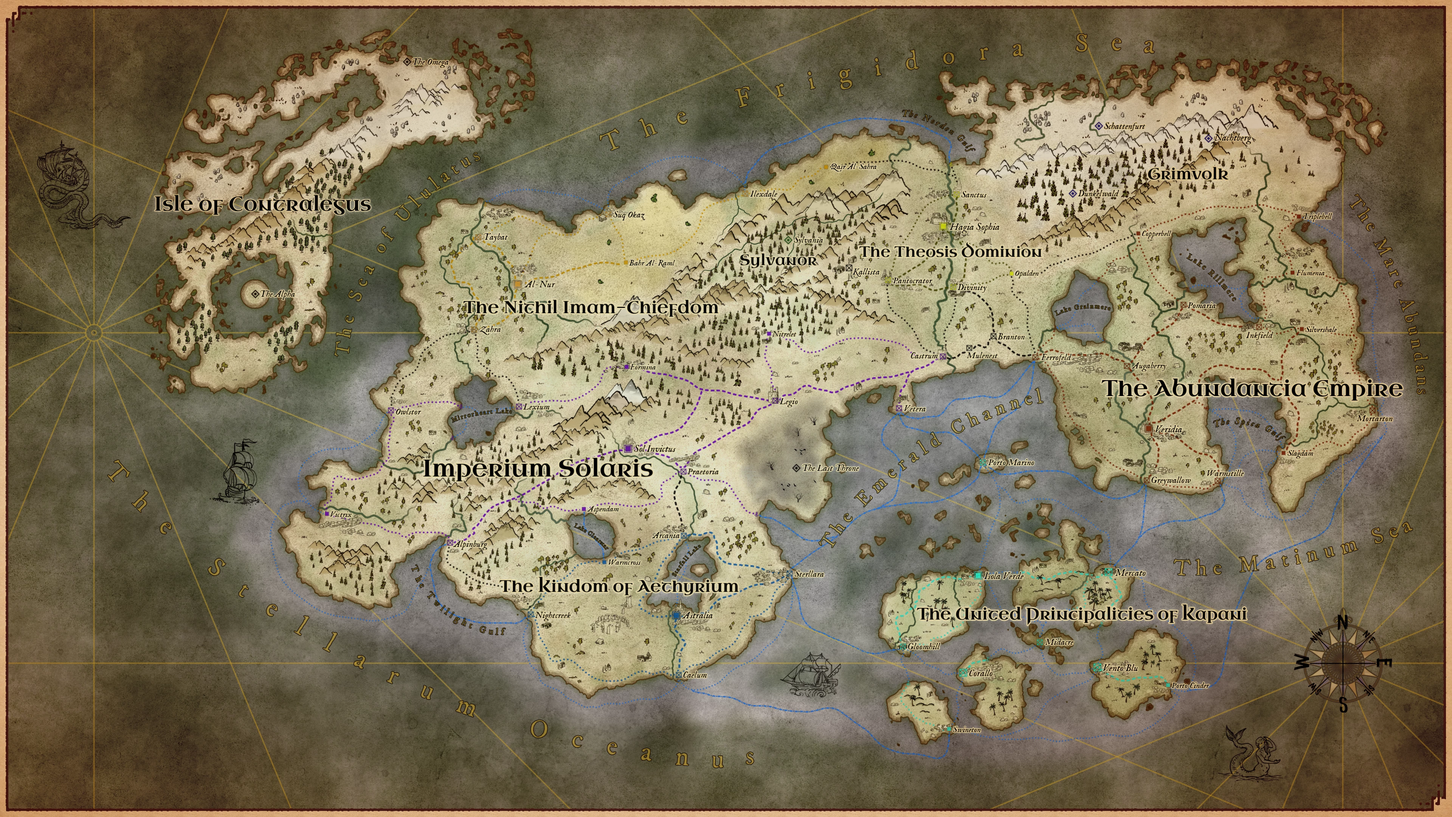
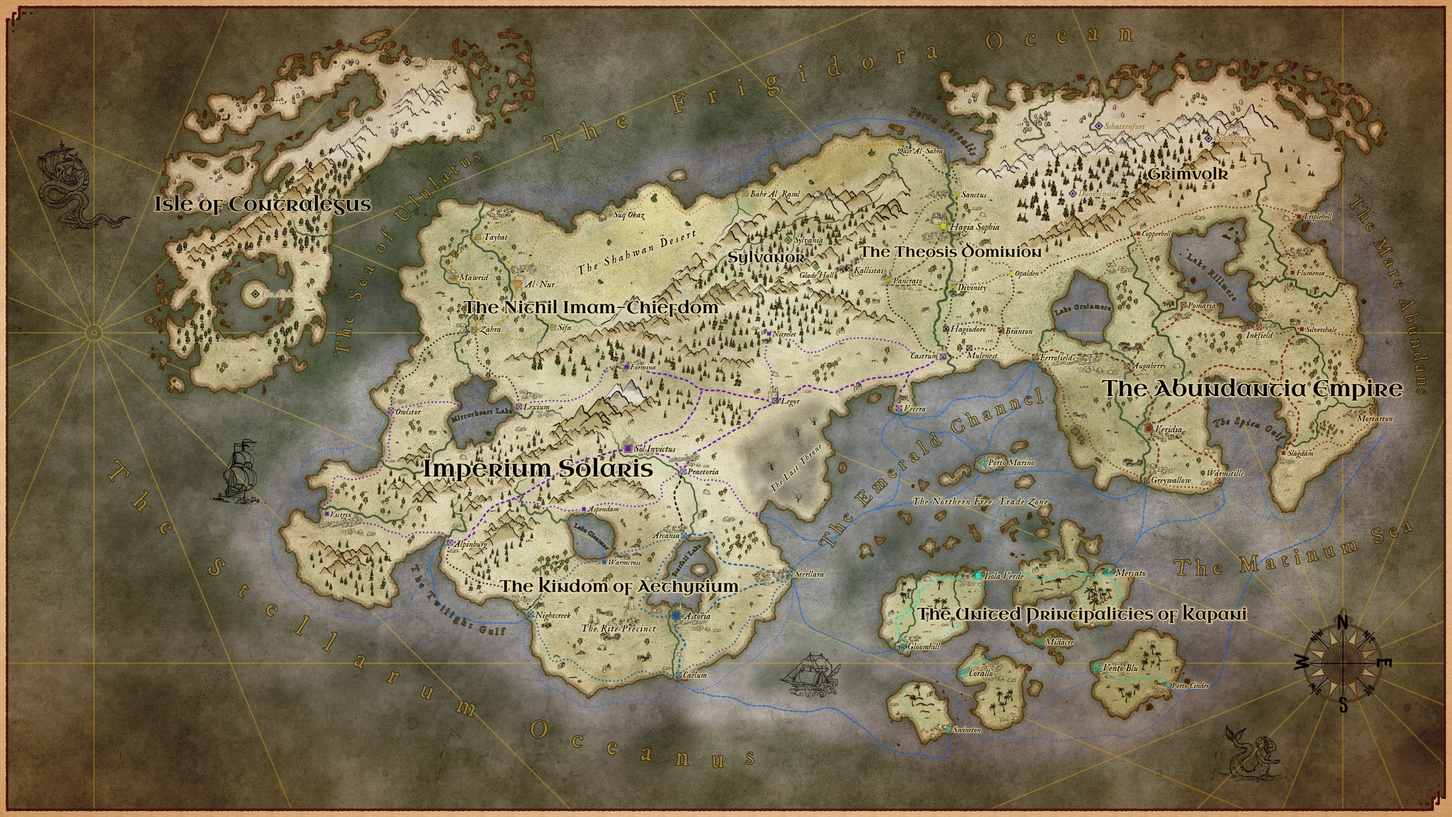
content: 新增《布兰顿战役》并更新地图与若干条目
- 行观别录新增《布兰顿战役》，含 9 张战况插图（右浮动 400px、可放大），
  图片置于 public/compendium/行观别录/布兰顿战役/
- 更新世界地图与标注版地图
- 地理概述地图插图行去掉 描述= 参数
- 修订政治、度量与岁时、阿布丹提亚

diff --git a/data/compendium/行观别录 Notes from the Road/布兰顿战役.md b/data/compendium/行观别录 Notes from the Road/布兰顿战役.md
@@ -1,0 +1,239 @@
+---
+title: 布兰顿战役
+titleEn: The Battle of Branton
+---
+
+布兰顿战役（The Battle of Branton）是第三次阿索战争前期的第一场决定性会战，发生于大陆历 1479 年炎阳季46日至金素季5日，历时约十天，战场位于西比尔平原东南缘的布兰顿河中下游两岸。阿布丹提亚帝国投入前线战斗人员约三十九万，由年仅十七岁的皇帝卡立曼七世·费内尔御驾亲征；索拉瑞斯帝国投入三个军团与近卫龙骑兵团共约五十四万五千人，凯撒雷尔金二世未亲临前线，部队由持凯撒御令的参谋长安托娜·维斯统一指挥。
+
+战役以阿布丹提亚获胜告终。索拉瑞斯三个军团被迫西撤至缪涅斯特一线重整，近卫龙骑兵团第一至第三旅在此役中损失近半，兵团长卢卡努斯·瓦伦重伤，三战后续战斗指挥由副团长代领。布兰顿战役是阿布丹提亚对龙工程兵团的首次实战投入，也是巨龙眷属自被编入索拉瑞斯军事体系以来第一次被成建制地摧毁。
+
+本篇所据史料以阿布丹提亚方面的战报、亲历者回忆与数种流传的战记为主，索拉瑞斯方面的军事记录至今未曾公开，凡涉及索军内部决策之处均系依已知结果反推。
+
+### 一、战役背景
+
+第二次阿索战争结束后，两国边境在西比尔平原南部以布兰顿河下游为界，这条边界由以本河命名的《布兰顿和约》划定。布兰顿河上游一带的边界并不循河而行，河东岸的布兰顿城在二战和约中被割让给索拉瑞斯，一百多年来是帝国在这一方向上最靠东的据点。
+
+1479 年清和季35日，阿布丹提亚对索拉瑞斯宣战。开战之初阿方即以突袭夺取布兰顿城，随后在布兰顿河东岸集结皇室近卫军、星术兵团与五位大公爵的地方军，准备西渡布兰顿河、向缪涅斯特一线推进。索拉瑞斯方面动员东部三个军团与近卫龙骑兵团编为第一集团军，渡索菲亚大运河东出，经缪涅斯特抵达布兰顿河西岸。阿方侦知索军动向后判断兵力对比不利于野战进攻，遂放弃西渡计划，依托布兰顿河在东岸构筑野战工事转取守势，意图以防守反击消耗索军。
+
+#### 战场地理
+
+<!-- 插图 compendium/行观别录/布兰顿战役/geography.webp 宽度=400 右 可放大 -->
+
+布兰顿河自北向南流经战场，中段接纳一条自西而来的支流后折向东南，于法拉利亚一带入海。下游近海一段河面开阔，不具备强渡条件，双方可能交锋的正面因此收缩在布兰顿城至汇口南方八十陆里之间的河段。
+
+支流的存在对索拉瑞斯一方尤为不利。它将西岸切为南北两个隔间，索军南北两翼之间的横向调动必须经汇口一带通过。位于两河交汇处的奥斯提乌姆镇因此成为整场战役的枢纽，索军的集团军指挥部在中辖军团到达后设置于此。西岸另一处要点是支流上游的卢佩尔库姆，索军自缪涅斯特东来的补给与增援皆经此地。东岸有米尔罗与法拉利亚两座城镇，前者为路网枢纽，后者位于河口，是阿方海上补给的入口。战场其余部分为开阔平原，仅有四片林地可供遮蔽，其中东北与东中两片正对可渡河段的后方。
+
+### 二、战前部署
+
+#### 索拉瑞斯帝国
+
+| 编成                                         | 兵力                                | 指挥官          |
+| ------------------------------------------ | --------------------------------- | ------------ |
+| 集团军指挥部（Army Group Headquarters，HQ）         | —                                 | 御前参谋长 安托娜·维斯 |
+| 中辖军团（The Central Legion，CEN）               | 二十一万（重步二团、轻步四团、骑兵一团），法术部队五个大队一万五千 | 军团长 鲁提尔·阿奎洛  |
+| 东奥利提斯军团（The East Olitis Legion，EOL）        | 十五万（重步一团、轻步三团、骑兵一团），法术部队三个大队一万    | 军团长 特拉文·雷辛   |
+| 西奥利提斯军团（The West Olitis Legion，WOL）        | 十二万（重步一团、轻步三团），法术部队三个大队一万         | 军团长 塞维林·韦里克  |
+| 近卫龙骑兵团（The Guard Dragon Cavalry Corps，DCC） | 三万（三个旅，每旅四个大队）                    | 兵团长 卢卡努斯·瓦伦  |
+
+按索拉瑞斯标准编制，一团三万人，一大队三千人，一小队五百人。神启魔法部队（Orison Battalions，Ori）分配至各军团独立指挥。集团军指挥部由三位军团长与参谋长维斯组成，参谋长受凯撒御令，军团长争执不下时拥有最后决定权。近卫龙骑兵团原则上受御令约束，听从参谋长调度，但依帝国律法拥有较高自决权，可视战机自行行动。
+
+#### 阿布丹提亚帝国
+
+| 编成                                      | 兵力                                    | 指挥官               |
+| --------------------------------------- | ------------------------------------- | ----------------- |
+| 联军总指挥（Supreme Commander）                | —                                     | 皇帝 卡立曼七世          |
+| 皇室近卫军（The Imperial Guard，IG）            | 七万（重步三团、骑兵一团）                         | 皇帝直辖              |
+| 星术兵团（The Astral Corps，AST）              | 三万一千（对龙工程兵团三团一万五千、巨像部队三团一万、野战星术师二团六千） | 皇帝直辖              |
+| 阿格伯瑞公爵军（The Augaberry Ducal Army，AUG）   | 八万，下辖三部伯爵军，两部子爵军                      | 阿格伯瑞公爵 韦尔滕·迪韦勒    |
+| 费洛菲尔德公爵军（The Ferrofield Ducal Army，FER） | 四万，下辖两部伯爵军                            | 费洛菲尔德公爵 奥德里克·切里萨诺 |
+| 波马里亚公爵军（The Pomaria Ducal Army，POM）     | 七万，下辖四部伯爵军，一部子爵军                      | 波马里亚公爵 卡韦尔·安布里西   |
+| 库珀贝尔公爵军（The Copperbell Ducal Army，COP）  | 四万，下辖三部伯爵军                            | 库珀贝尔公爵 威尔姆·托尔内利   |
+| 斯拉格丹公爵军（The Slagdan Ducal Army，SLG）     | 六万，下辖两部伯爵军，四部子爵军                      | 斯拉格丹公爵 哈内克·巴利     |
+
+阿格伯瑞与费洛菲尔德同属阿格伯瑞帝政省，波马里亚与库珀贝尔同属波马里亚帝政省，各自倾向于联合行动。战时皇帝以全军最高统帅身份居中指挥，各公爵在其统率框架内各自指挥本部；皇室近卫军和星术兵团由皇帝直辖，不经贵族体系。
+
+#### 双方的作战构想
+
+<!-- 插图 compendium/行观别录/布兰顿战役/pre-battle.webp 宽度=400 右 可放大 -->
+
+阿布丹提亚全军在战役第一日即已就位：北翼阿格伯瑞与费洛菲尔德固守布兰顿城及上游东岸，中翼皇室近卫军与斯拉格丹据奥斯提乌姆对岸，南翼波马里亚与库珀贝尔据下游东岸。对龙工程兵团置于中翼后方，皇帝对其使用的要求只有一条：在最合适的时机之前不得暴露。
+
+索拉瑞斯三个军团则分批抵达。东奥利提斯军团与近卫龙骑兵团第一旅于炎阳季46日抵下游西岸，中辖军团与龙骑兵团第二第三旅48日晚抵奥斯提乌姆一带，西奥利提斯军团北上绕开阿方中翼防线，于金素季1日经中游渡河、出现于布兰顿城以南的东岸。索方的构想是以中辖在汇口正面压迫、牵制阿军中枢，以西奥利提斯在东岸展开平原进攻、迫使阿军沿东岸北调，待其横向调动展开时投入龙骑兵团。
+
+笔者注：梯次抵达在纸面上是稳妥的安排，实际上意味着索军在最初五日里并不享有它名义上的兵力优势。46日至47日，索方在场者仅东奥利提斯一部十五万；直至第五日为止，索军在场兵力始终少于阿军。索拉瑞斯方面显然认为采取守势的对手不会在河的另一侧主动出击——这个判断在战役第一天就被推翻了，只不过推翻它的并不是卡立曼七世。
+
+### 三、战役经过
+
+#### 第一阶段：炎阳季46日至炎阳季48日
+
+<!-- 插图 compendium/行观别录/布兰顿战役/phase-I-1.webp 宽度=400 右 可放大 -->
+
+46日清晨，阿布丹提亚南翼的波马里亚与库珀贝尔两位公爵未经报备，违反皇帝东岸固守的命令，于奥斯提乌姆下游七十陆里处经七处浮桥渡河，自行向立足未稳的东奥利提斯军团发起进攻。波马里亚军七万担任正面，库珀贝尔军四万绕北侧迂回。两位公爵的判断是时间在己方一侧：东奥利提斯自本土长途行军而来，状态不佳，短期内不会有援军，龙骑兵团在场者至多一个旅。渡河部队未携任何对空手段。
+
+东奥利提斯军团长雷辛以重步兵团顶住正面，三个轻步团梯次向西且战且退，同时以骑兵团扑击库珀贝尔的侧翼纵队，三个法术大队全部投入正面支援重步兵团。正面阵地当日失守，重步兵团伤亡惨重，但其受轻步兵部队接应向西退却，成功把阿军越拉越远；骑兵团阻断了库珀贝尔的夹击，确保了步兵部队的撤退路线。
+
+46日黄昏。阿军全部渡河完毕之后，龙骑兵团第一旅一万骑自卢佩尔库姆出击，目标不是敌军而是渡场，七处浮桥被毁去五处，切断两公爵军撤退路线。同一日下午，卡立曼七世获悉南翼擅动，急令斯拉格丹公爵军携巨像部队第一第二团、野战星术师第一团南下接应，并遣信使渡河传达后撤命令。
+
+<!-- 插图 compendium/行观别录/布兰顿战役/phase-I-2.webp 宽度=400 右 可放大 -->
+
+47日清晨信使抵达，两位公爵开始东撤。波马里亚军当日退抵渡口，发现浮桥已毁，被迫与追击的东奥利提斯军团在河岸交战；库珀贝尔军则被索军骑兵缠住，未能按时抵达西岸。斯拉格丹部于当日中午抵达东岸，由野战星术师团重建渡桥，巨像部队击退索方龙骑兵团第一旅后续对渡场发起的二次进攻。同日下午，卡立曼七世传信北翼要求费洛菲尔德公爵军南下支援仅余七万余人的中翼，并要求工程兵团撤入北方树林避开空中侦查。龙骑兵团第一旅放弃南面目标，北上袭击阿方传令线，但阿方传令兵均配属星术师以织虹星术掩护，自空中难以察觉，此次出击无功而返。
+
+48日下午，波马里亚军大部成功渡回东岸。库珀贝尔军在东奥利提斯军团骑兵与中辖军团先遣骑兵合计六万骑的合围下崩溃，公爵威尔姆·托尔内利阵前战死，所部伤亡惨重、溃散抵岸。其残部后由斯拉格丹公爵军收拢并暂拨波马里亚公爵指挥。阿布丹提亚在开战头三日损失了一支完整的公爵军和一位公爵，代价全部来自一次未经许可的进攻。
+
+#### 第二阶段：炎阳季49日至金素季1日
+
+<!-- 插图 compendium/行观别录/布兰顿战役/phase-II-1.webp 宽度=400 右 可放大 -->
+
+48日傍晚，索拉瑞斯中辖军团抵达奥斯提乌姆，龙骑兵团第二、第三旅同时到位。索方指挥部内部随即出现分歧：参谋长维斯主张不在汇口强渡，改由上游绕行、集中兵力于北翼；军团长阿奎洛认为拖延三日足以让阿方补齐北翼，主张即刻利用中翼空虚强渡。维斯动用了御令权，定中辖军团在奥斯提乌姆强渡以夺取桥头堡，钉住阿军中枢，同时令西奥利提斯军团在上游渡河后立刻向东机动切断阿方两翼联系。
+
+49日拂晓，中辖军团自奥斯提乌姆强渡。此时斯拉格丹部尚未北返、费洛菲尔德部刚刚抵达，阿方中翼可用于滩头防御的星术部队仅有巨像第三团与野战星术师第二团，无法抵抗索方满效率的法术火力，被迫让出登陆区。中辖军团两个重步团与两个轻步团成功上陆，随后遭皇室近卫军依托工事全面阻击，索军虽占据上风但阵地推进缓慢。瓦伦向维斯请战要求投入龙骑兵团支援东岸，被维斯拒绝。至49日傍晚斯拉格丹军携巨像第二团与野战星术师第一团抵达战场，阿奎洛放弃确保登陆场，主动撤出部队。此战索方虽为登陆一方，战损仍占优势。
+
+此后索方的判断发生两处变化。其一是元素疏化的代价开始显现：下游段与奥斯提乌姆正面先后经历高强度施法，索军祷言部队在这两处的效率已明显下降，而阿方所倚仗的星术不受疏化影响。其二是阿方对龙工程兵团在中翼几乎被撕开时始终未曾出现，索方由此推断它并非不存在，而是在等待龙骑兵团。
+
+<!-- 插图 compendium/行观别录/布兰顿战役/phase-II-2.webp 宽度=400 右 可放大 -->
+
+维斯遂将主攻方向转往北翼。中辖军团分出轻步团第二第三团与骑兵团北上，余部留守汇口南段维持压力。金素季1日，西奥利提斯军团十二万于布兰顿城以南渡河到达东岸，此处区域此前未经动用神启魔法，所配法术部队得以满效率发起进攻；龙骑兵团三个旅三万骑亦于同日一次性投入。阿格伯瑞公爵军八万人虽有工事掩护仍伤亡惨重，被迫退入布兰顿城固守，与中翼的联系被切断。公爵本人在此战中身负重伤，失去一条腿与一条小臂。
+
+阿方战史记载，战役中最关键的方案由阿格伯瑞公爵本人提出。他在重伤当夜（金素季1日）以急信向卡立曼七世请战，自愿以残部死守布兰顿城，将索军主力牵制在北翼，为中翼创造决战条件。其急信中有一句后来被阿方文献反复引用的话：“让他们的刀和枪冲着我来吧，孩子。当他们抬起手的时候，你要像一柄利剑一样刺入他们的心脏。”，卡立曼七世同意了这一方案。
+
+#### 第三阶段：金素季2日至金素季3日
+
+<!-- 插图 compendium/行观别录/布兰顿战役/phase-III-1.webp 宽度=400 右 可放大 -->
+
+金素季2日阿布丹提亚方依阿格伯瑞公爵提议行动：北翼死守，南翼佯攻牵制东奥利提斯军团，中翼则集结全部二十万兵力强渡布兰顿河，卡立曼七世亲率皇室近卫军在前，直指奥斯提乌姆的索军指挥部；对龙工程兵团同时推进至河边待机，部署在河岸后方两处人工土丘上，射界覆盖奥斯提乌姆渡场上空八十度扇面。维斯认出了这一部署的意图：能在一天内立刻驰援中翼的只有龙骑兵团，对龙工程兵团正在等的就是这一刻，因此她选择不投入龙骑兵，命中辖所剩重步兵两团，轻步兵第一第四团迟滞后撤、让出汇口，指挥部西移，并令南北两翼放弃当前目标立即向卡立曼的侧后合拢，布兰顿城下仅留西奥利提斯轻步兵第二团。龙骑兵团则自西绕行与中辖军团汇合，不可与阿军接战。
+
+兵团长瓦伦拒绝了这一判断。2日拂晓，近卫龙骑兵团三个旅三万骑自北翼南下，全部投入奥斯提乌姆渡场上空，目标是渡河中的皇室近卫军与皇帝本队。
+
+笔者注：龙骑兵团原则上受御令指挥，但其指挥官可自行视战机行动，以完全发挥飞行部队的机动优势，因此瓦伦拒绝参谋部命令并不违反帝国律令，但问题在于此前七日间，维斯持续征调该团的精锐骑手承担传令任务——索军的情报与调度效率因此远胜阿军，代价是瓦伦对参谋部的敌意在战役期间不断累积。龙骑兵团在2日拂晓自行行动，其中多少来自于瓦伦的军事判断，又多少来自于其与维斯的矛盾，笔者不得而知。索拉瑞斯方面从未就2日瓦伦的决定给出正式说明，但战后二十年间，帝国军中对这一日的讨论从未真正停过。
+
+阿方对龙工程兵团即在此刻展开。由于索方没有任何地面部队随之压制阵地，龙骑兵在预设射界中遭到对龙穿甲弩炮与移动星术谐振台的全面打击。龙骑兵团三旅三万人在这一日中损失一万五千人，队伍溃散；兵团长卢卡努斯·瓦伦身负重伤，在部下掩护下领残部脱离战场，缺席此后三战全部战事。皇帝卡立曼七世本人在交战中受轻伤。
+
+阿方中翼二十万人在布兰顿河上和东岸目睹了龙骑兵团被击垮的过程。战斗与渡河结束后，2日下午，卡立曼七世在布兰顿河西岸向全军发表阵前演讲（全文见附录一）后领各部向西北追击索军。索拉瑞斯中辖余部接情报后得知唯一可能的援兵在半日之内被击垮，士气崩溃，原定的迟滞后撤变为溃散，损失惨重，索军指挥部因撤离及时得以走脱。
+
+金素季3日，索方中辖军团与龙骑兵团余部在卢佩尔库姆东四十陆里处依托指挥部重整。维斯判断战役已无取胜可能，遂急信北翼与南翼索军立刻向中翼靠拢并转向西撤退。
+
+#### 第四阶段：金素季4日至金素季5日
+
+<!-- 插图 compendium/行观别录/布兰顿战役/phase-IV-1.webp 宽度=400 右 可放大 -->
+
+金素季4日上午，卡立曼七世停止追击中辖军团，转北渡过支流，率军从侧翼攻击自布兰顿城方向往西南卢佩尔库姆靠拢的北翼索军。负责殿后的西奥利提斯军团轻步兵第一第三团在撤退中被歼。南翼波马里亚公爵得索军全线撤退情报，急欲扩大战果，第二次无视皇帝的命令，将佯攻改为实攻，渡河追击东奥利提斯军团；北翼阿格伯瑞军整编残部出城，追击自城下撤离的西奥利提斯军团轻步兵第二团，阿格伯瑞公爵在担架上亲自随军出击。
+
+索拉瑞斯方全线撤退。东奥利提斯军团回身反击波马里亚军，将其击退，但撤退令已下，雷辛放弃追击，向西北与中辖残部及指挥部会合后撤退，成为了索军三个军团中保存编制最完好的一个。北翼索军折损殿后的两个轻步兵团成功与中翼合流，阿方未继续追击，折返向东北反渡布兰顿河，将阿格伯瑞军缠住的轻步兵第二团包围全歼。西奥利提斯军团的三个轻步团在这两日内全部覆灭。
+
+维斯收拢三军团残部后往西撤往缪涅斯特一线，与帝国后续到达的军团会合重整。阿布丹提亚军顺势西进占领卢佩尔库姆，就近整军。布兰顿战役至此结束。
+
+### 四、战役结果
+
+#### 双方战损
+
+伤亡与被俘人数如下。索拉瑞斯方面各军团法术部队并入其军团计。
+
+| 索拉瑞斯    | 编制     | 伤亡或被俘  |
+| ------- | ------ | ------ |
+| 中辖军团    | 二十二万五千 | 九万     |
+| 东奥利提斯军团 | 十六万    | 三万     |
+| 西奥利提斯军团 | 十三万    | 十万     |
+| 近卫龙骑兵团  | 三万     | 一万五千   |
+| 合计      | 五十四万五千 | 二十三万五千 |
+
+| 阿布丹提亚    | 编制     | 伤亡或被俘 |
+| -------- | ------ | ----- |
+| 皇室近卫军    | 七万     | 二万五千  |
+| 对龙工程兵团   | 一万五千   | 基本无损失 |
+| 巨像部队     | 一万     | 二千    |
+| 野战星术师    | 六千     | 一千    |
+| 阿格伯瑞公爵军  | 八万     | 六万    |
+| 费洛菲尔德公爵军 | 四万     | 一万    |
+| 波马里亚公爵军  | 七万     | 三万    |
+| 库珀贝尔公爵军  | 四万     | 近四万   |
+| 斯拉格丹公爵军  | 六万     | 二万    |
+| 合计       | 三十九万一千 | 十八万八千 |
+
+两支部队在战后被裁撤。索拉瑞斯西奥利提斯军团三个轻步团全灭、全军损失逾七成，余部解散回归行省，未参加第三次阿索战争的后续战斗；阿布丹提亚库珀贝尔公爵军几乎全军覆没，番号撤销，爵位由威尔姆·托尔内利的长子继承。
+
+笔者注：这份报告表里有两点值得一提。其一是胜方的损失比例高于败方——阿布丹提亚损失约占其编制的四成八，索拉瑞斯约占四成三。布兰顿是一场战略胜利而非消耗战胜利，阿布丹提亚得到的是全局战争的主动权以及索拉瑞斯的顶端战力的重创，不是人命上的交换比。其二是这些损失在阿军内部的分布：阿格伯瑞与库珀贝尔两支公爵军承担了全军损失的一大半，而皇帝直辖的皇室近卫军与星术兵团合计十万一千人，损失仅两万八千，是全军比例最低的部分。
+
+#### 对阿布丹提亚的影响
+
+在军事层面，布兰顿之战解决了一个困扰阿布丹提亚一百二十余年的问题。自第一次阿索战争以来，龙骑兵始终是阿布丹提亚军队无法在正面战场解决的兵种，两次战败均与此直接相关。第二次阿索战争之后，帝国依托丹提亚-瑞姆技术协约引进的星术军工技术，逐步建立起专以反制龙骑兵为目的的对龙工程兵团，至此役方才第一次投入实战。结果是决定性的：三万龙骑兵在半日之内损失过半，此后的战争过程中，索拉瑞斯对龙骑兵的使用变得极为谨慎，成为了阿方的重要战术优势之一。
+
+在政治层面，卡立曼七世的收获比战场上的更大。取得决定性战果的是皇室近卫军与星术兵团，这两支部队由皇帝直辖、不经贵族、军费由国库支出；而同一场战役中，两位公爵先后两次抗命，一位战死、所部覆灭，另一位则两次吃下败退。三柱议会中的贵族柱长期以“军费自负、指挥自主”为据维持贵族在军事上的地位，这一根据在布兰顿之后变得难以维持。此后二十余年间皇帝与议会围绕军权的一系列争执，其起点大多可以追溯到这十天。
+
+皇帝在阵前演讲中表彰了阿格伯瑞公爵一人，对四日前阵亡的库珀贝尔公爵未置一词。为国血战，服从命令者出现在演讲里，轻率冒进，公然抗命者即便战死也没有留下名字，这一对照在阿布丹提亚贵族当中被议论了很多年。
+
+#### 对索拉瑞斯的影响
+
+索拉瑞斯在此役中损失的不只是兵力。近卫龙骑兵团是帝国自建国以来维持西诺拉尼亚统治的核心支柱，也是历次阿索战争中决定战役走向的重要力量，其在布兰顿河上空的惨败使帝国在第三次阿索战争中被迫将它惯常的顶端常规战力半雪藏。战争最终以索拉瑞斯议和、签订《卡斯特鲁姆和约》告终，这一结局的军事基础是在布兰顿奠定的。
+
+布兰顿战役也暴露出了帝国指挥体制上的缺陷。龙骑兵团金素季2日的出击未经御前参谋部同意，而其确实被授予了这样的权力——历史这一安排确实有效地发挥了飞行部队的高机动性，但在其被阿方部署了针对性措施的当下，这一自决权反而成了关键时刻飞行与地面部队难以协同作战的软肋。而在同一场战争中，索拉瑞斯的龙骑士团以多数决议全程未予参战，帝国亦从未就此给出正式说明。两件事同时发生，指向的是同一个问题：凯撒名下最强的两支力量，能否真正发挥作用都无法由帝国的军事制度直接保证。
+
+笔者注：此处只想指出一个时间上的巧合。雷尔金二世登基于 1470 年，布兰顿之战发生在 1479 年，其间九年。一位血脉合法性本就受到质疑的凯撒，在其登基后的第一场大战中，一支直属于他本人的部队违背了前线的统一指挥，另一支名义上效忠于他本人的力量则干脆没有出现。此后二十年间帝国对外仍以龙骑士团作为威慑姿态的核心，但各国在评估索拉瑞斯军力时是否仍将其计入，恐怕已是另一回事。
+
+### 附录一：卡立曼七世的阵前演讲
+
+以下为阿布丹提亚方面通行的演讲文本，据称出自1479年金素季2日当日，近卫军书记官的记录。皇帝演讲由随行星术师放大声音传至全军，卡立曼七世时年十七岁，负轻伤，骑于马上。
+
+> "The river behind you is called the Branton.
+> “你们背后的这条河，叫布兰顿。
+> 
+> A hundred and twenty-three years ago we signed a treaty at the Glade Hall. That treaty carries the name of this river. The man who signed it was my forefather. By the time he signed it, we had already lost twice. The first time, we gave up the land to the west. The second time, we gave up the good farmland of southern Sybil, and Kapani out in the sea.
+> 一百二十三年前，我们在林缘议厅签过一份和约，那份和约用的就是这条河的名字，签字的是我的先祖。他签字的时候，我们已经输了两次。第一次，我们交出了西边的土地。第二次，我们交出了西比尔南边的良田，还有海上的卡帕尼。
+> 
+> For a hundred and twenty-three years since, we have watched Solarians lord it over land that belongs to us. Some say that is because we were beaten into submission.
+> 那之后一百二十三年，我们看着那些索拉瑞斯人在属于我们的土地上作威作福，有人说，那是因为我们被打服了。
+> 
+> We were not.
+> 我们没有。
+> 
+> For a hundred and twenty-three years we have been doing other things. We raised up the Three Pillars Parliament. We brought star magic home and learned it. Our grain feeds half this continent — including the people on the far bank of the Grand Canal. We make paper, we weave cloth, we lay roads; our cities run from the Spica Gulf to the Twin Lakes and the Grimvolk Range. They call us the granary. They call us the land of abundance in the east.
+> 这一百二十三年，我们在做别的事。我们把三柱议会立了起来，我们把星术学了回来，我们的粮食养活了这块大陆上一半的人，也包括大运河对岸的那些人。我们造纸、纺布、修路，我们的城市从穗浪湾铺到两湖和葛林沃尔克山——他们叫我们粮仓，叫我们大陆东方的丰饶之国。
+> 
+> They have never called us a power.
+> 他们从来不叫我们强国。
+> 
+> (The Emperor turns and raises a hand toward the riverbank.)
+> （皇帝转过身，朝河滩抬了抬手。）
+> 
+> Look at what is lying over there. Before today, no human army had ever broken them in open battle. They are the shadow that has hung over Abundantia for two hundred years. Today they came down out of the sky — and you all saw how they went back up.
+> 躺在那边的东西，在今天之前，没有一支人类的军队正面打垮过他们。他们是盘旋在阿布丹提亚头上两百年的阴影，今天他们从天上下来——你们都看见了他们是怎么回去的。
+> 
+> What broke them was no miracle. It was bolt-throwers and resonance platforms, cast furnace by furnace in the workshops of Veridia, of Copperbell, of Ferrofield, by your brothers and sisters and mine. It is a hundred and twenty-three years of Abundantia's gathered strength! We beat them once today — we can beat them twice, three times, without end!
+> 打垮他们的，不是奇迹，是在维里迪亚、在库珀贝尔、在费洛菲尔德的工坊里，你我的兄弟姐妹一炉一炉铸出来的弩炮和谐振台，是阿布丹提亚一百二十三年来积蓄下来的力量！我们今天能打败他们一次，就能打败他们两次，三次，无数次！
+> 
+> (A brief pause.)
+> （短暂的停顿）
+> 
+> There is one man I want to speak of.
+> 我要说一个人。
+> 
+> The Duke of Augaberry, Welten Duvelle, my father's cousin. Three days ago, in the north, he lost a leg and half an arm. He is inside Branton at this hour, ringed about by a Solarian legion. He cannot hear me.
+> 阿格伯瑞公爵，韦尔滕·迪韦勒，我的表叔。三天前他在北边丢了一条腿和一条小臂。他此刻在布兰顿城里，被索拉瑞斯人的一个军团层层包围，他听不见我说话。
+> 
+> The night they carried him off the field, he sent me an urgent letter asking to fight. He wrote:
+> 他被抬下来的那天夜里，急信向我请战。他说，
+> 
+> 'Let their blades and their spears come at me, boy. And when they raise their hands — go in like a sword, into their heart.'
+> ‘让他们的刀和枪冲着我来吧，孩子。当他们抬起手的时候，你要像一柄利剑一样刺入他们的心脏。’
+> 
+> That hour is now.
+> 现在就是这个时候。
+> 
+> (The Emperor draws his sword and turns his horse to face west.)
+> （皇帝拔出长剑，将马掉转面向西方。）
+> 
+> My grandfather and my father did not live to cross the Branton. So I stand here in their place — I will not wait behind for you to come back. I will ride out ahead of you, the way I did just now against those loathsome dragon riders!
+> 我的祖父和父亲，都没有活到能越过布兰顿河的这一天，所以我代他们站在这里——我不会在后面等你们回来，我会冲在你们前面，就像刚刚面对那些可憎的龙骑兵那样！
+> 
+> We will take back our cities. We will take back our land!
+> 我们要夺回属于我们的城市，夺回属于我们的土地！
+> 
+> Forward! Drive the Solarians back to the west! God keep House Fenel! God keep Abundantia!"
+> 进军！把那些索拉瑞斯人赶回西边去！天佑费内尔！天佑阿布丹提亚！”
+
+### 附录二：《卡立曼七世在布兰顿河边的演讲》
+
+<!-- 插图 compendium/行观别录/布兰顿战役/painting.webp 整行 可放大 -->
+
+1502 年，阿布丹提亚画界为皇帝四十岁生日献上一幅巨幅油画，题为《卡立曼七世在布兰顿河边的演讲》，现悬于维里迪亚皇宫大厅。画面取皇帝拔剑掉转马头的一刻，背景是燃烧的河滩与远处的布兰顿河，近卫军、星术兵团、费洛菲尔德和斯拉格丹公爵的旗帜自画面右下角一路铺至地平线。此画在丹提亚境内有大量尺寸各异的临摹本流传，是当代帝国最广为人知的历史题材作品之一。
+
+笔者注：这两年笔者在阿布丹提亚旅居时，在各种公众场合看到过这幅画。画面上皇帝的马侧另有一骑，是一位身着戎装，四肢完好的老公爵，按位置与纹章只能是阿格伯瑞。而在演讲发生的那个下午，韦尔滕·迪韦勒缺着一条腿和一条小臂，被围在一百陆里以外的布兰顿城中。

diff --git a/data/compendium/大陆总览 Overview/政治.md b/data/compendium/大陆总览 Overview/政治.md
@@ -115,9 +115,9 @@ titleEn: The Politics
 
 这一层的力量，其编制、规模与战力为外界充分掌握，或经实战与大型工程反复检验，或因常态化的公开运作而无从遁形。各国的常规部队大多归入此列。
 
-阿索两强与圣领的常规军构成了这一层的主体。索拉瑞斯实行全民军事化，以军团为最高编制、军团与行省一体，八大军团既是行政骨架也是军事编制，历次阿索战争中规模与战力反复展现于实战。阿布丹提亚常规军分为贵族征召的地方军与皇室直属的王室近卫军，是三战中帝国军队的主体，编制与战斗序列为外界熟知。忒奥西斯护教军下分五个师，由各都主教区分别组建、平时分散驻防，以治安与国土防御为主。这些军队的兵员构成、征召方式与大致规模均无隐秘可言。
+阿索两强与圣领的常规军构成了这一层的主体。索拉瑞斯实行全民军事化，以军团为最高编制、军团与行省一体，八大军团既是行政骨架也是军事编制，历次阿索战争中规模与战力反复展现于实战。阿布丹提亚常规军分为贵族征召的地方军与皇室直属的皇室近卫军，是三战中帝国军队的主体，编制与战斗序列为外界熟知。忒奥西斯护教军下分五个师，由各都主教区分别组建、平时分散驻防，以治安与国土防御为主。这些军队的兵员构成、征召方式与大致规模均无隐秘可言。
 
-在常规军之上，这三国还各拥有一支战力已获公开印证的精锐。索拉瑞斯龙骑兵团约一千头飞龙、三千人编制，是帝国维持西诺拉尼亚统一的核心军事支柱，跨地形作战能力冠绝大陆，其规模、训练方式与编制传统在各国均有相对完整的情报积累。阿布丹提亚的星术兵种与对龙工程兵团是帝国魔法军力的全部主体——前者以星术巨像与野战星术师为核心，后者以对龙穿甲弩炮等专用装备为标志，三战中的实战表现已使其战斗能力得到外界验证。忒奥西斯圣仪军是大陆规模最大的法术军事力量，其在索菲亚大运河建设中的表现，已展现出集团施法的工程级能力。
+在常规军之上，这三国还各拥有一支战力已获公开印证的精锐。索拉瑞斯龙骑兵团约八万头飞龙、五万人编制，是帝国维持西诺拉尼亚统一的核心军事支柱，跨地形作战能力冠绝大陆，其规模、训练方式与编制传统在各国均有相对完整的情报积累。阿布丹提亚的星术兵种与对龙工程兵团是帝国魔法军力的全部主体——前者以星术巨像与野战星术师为核心，后者以对龙穿甲弩炮等专用装备为标志，三战中的实战表现已使其战斗能力得到外界验证。忒奥西斯圣仪军是大陆规模最大的法术军事力量，其在索菲亚大运河建设中的表现，已展现出集团施法的工程级能力。
 
 卡帕尼大舰队是大陆唯一具备独立海军编制的力量，战舰装备星术火炮、仲裁星术防护罩与随船神启魔法师，专为海战设计。与上述各支力量不同，大舰队从未参与任何大陆国际性战事或大型工程，其可信并非来自实战检验，而在于常年在翡翠海峡执行护航与海盗清剿、编制与运作始终处于公开视野；加之大陆并无第二支成熟海军，其海上支配地位本无对手可供较量。
 

diff --git a/data/compendium/诸国列志 Chorography of the Nations/阿布丹提亚.md b/data/compendium/诸国列志 Chorography of the Nations/阿布丹提亚.md
@@ -39,6 +39,8 @@ titleEn: The Abundantia Empire
 
 帝国约七成人口为公教信徒。公教总会驻于润溪湖西南的波马里亚，领袖称宗主教，终身任职；公教区多依帝政省划界，分会设于区内最大城市，其下不再分级、直辖各地基层教会，基层教会的管理者称司铎。公教教阶依序为学徒、修士／修女、执事、司铎、主教、宗主教，较正教更为扁平；所有神职人员均不得婚娶，欲婚者须经小祝职复归寻常信徒，主教及以上则不得复归、须终身侍神。公教会于十四世纪宣称寻得圣保罗圣骸（未言如何寻得），供奉于波马里亚大教堂。
 
+费内尔家族的纹章为绿地金牛，牛下横置两道波纹，以谷、水、畜三者为帝国立国之本。纹章的正式描述自建国以来未曾更改，画法却在第三次阿索战争后出现了一处未经诏令的变动：战前的族谱与旗帜上金牛一律低头，战后新绘的版本则改为昂首、双角镀金。宫廷画院对此从无说明，民间摹本亦一并沿用了新画法。
+
 【历史上皇室公主基本仅仅许配给贵族，绝大多数是公爵，但帝国继承法原则上并没有禁止公主与平民阶层的后代继承皇位。虽然历史上从未有过，但这不妨碍它成为帝国境内流行的虚构小说题材之一】
 
 ### 政治与军事
@@ -63,7 +65,7 @@ titleEn: The Abundantia Empire
 
 帝国军事力量在结构上呈现"贵族—魔法"的双轨分立，是三柱分权在军事层面的具体体现。
 
-常规军方面，主体是按帝政省划编的**地方军**，不属常备军序列，战时由各级贵族征召、指挥，军费由贵族自负；皇帝直辖的**王室近卫军**则为常备军，规模有限，军费由议会审批、自国库支出。战时，皇帝以全军最高统帅身份居中指挥，王室近卫军直属其下，各贵族在皇帝统率框架内各自指挥本部地方军。**星术兵团**是帝国魔法军力的主体，由星术巨像、操作巨像的星术师与野战星术师组成，由皇室与帝政省政府从全国星术师中征调、训练，直属皇室指挥，与地方军在体系中平起平坐。
+常规军方面，主体是按帝政省划编的**地方军**，不属常备军序列，战时由各级贵族征召、指挥，军费由贵族自负；皇帝直辖的**皇室近卫军**则为常备军，规模有限，军费由议会审批、自国库支出。战时，皇帝以全军最高统帅身份居中指挥，皇室近卫军直属其下，各贵族在皇帝统率框架内各自指挥本部地方军。**星术兵团**是帝国魔法军力的主体，由星术巨像、操作巨像的星术师与野战星术师组成，由皇室与帝政省政府从全国星术师中征调、训练，直属皇室指挥，与地方军在体系中平起平坐。
 
 特殊编制**对龙工程兵团**专为反制索拉瑞斯龙骑兵团而设，在二战战败后逐步建立，依托丹提亚-瑞姆协约引入的星术军工技术持续完善，至三战时已成熟。兵团列装对龙穿甲弩炮、移动星术谐振台等专用军备，是三战两场决定性战役胜利的关键支柱。工程兵团直属皇室，因装备依赖星术师操作，也常视为星术兵团的特种分支。
 

diff --git a/data/compendium/度量与岁时 Measures and Times.md b/data/compendium/度量与岁时 Measures and Times.md
@@ -167,7 +167,7 @@ titleEn: Measures and Times
 
 | 和约      | 通用历落款          | 圣树历落款                |
 | ------- | -------------- | -------------------- |
-| 维特拉和约   | 1292 年清和季 32 日 | 第四纪 叶茂 357 年 中春 31 日 |
+| 文特拉和约   | 1292 年清和季 32 日 | 第四纪 叶茂 357 年 中春 31 日 |
 | 布兰顿和约   | 1356 年炎阳季 27 日 | 第四纪 叶茂 379 年 前夏 62 日 |
 | 卡斯特鲁姆和约 | 1483 年霜序季 38 日 | 第四纪 叶茂 420 年 后秋 52 日 |
 

diff --git a/data/compendium/大陆总览 Overview/地理.md b/data/compendium/大陆总览 Overview/地理.md
@@ -3,7 +3,7 @@ title: 地理概述
 titleEn: The Geography
 ---
 
-<!-- 插图 compendium/world_map_labelled.webp 整行 可放大 比例=16/9 描述=诺拉尼亚大陆地图（标注版） -->
+<!-- 插图 compendium/world_map_labelled.webp 整行 可放大 比例=16/9 -->
 
 ### 陆地
 
